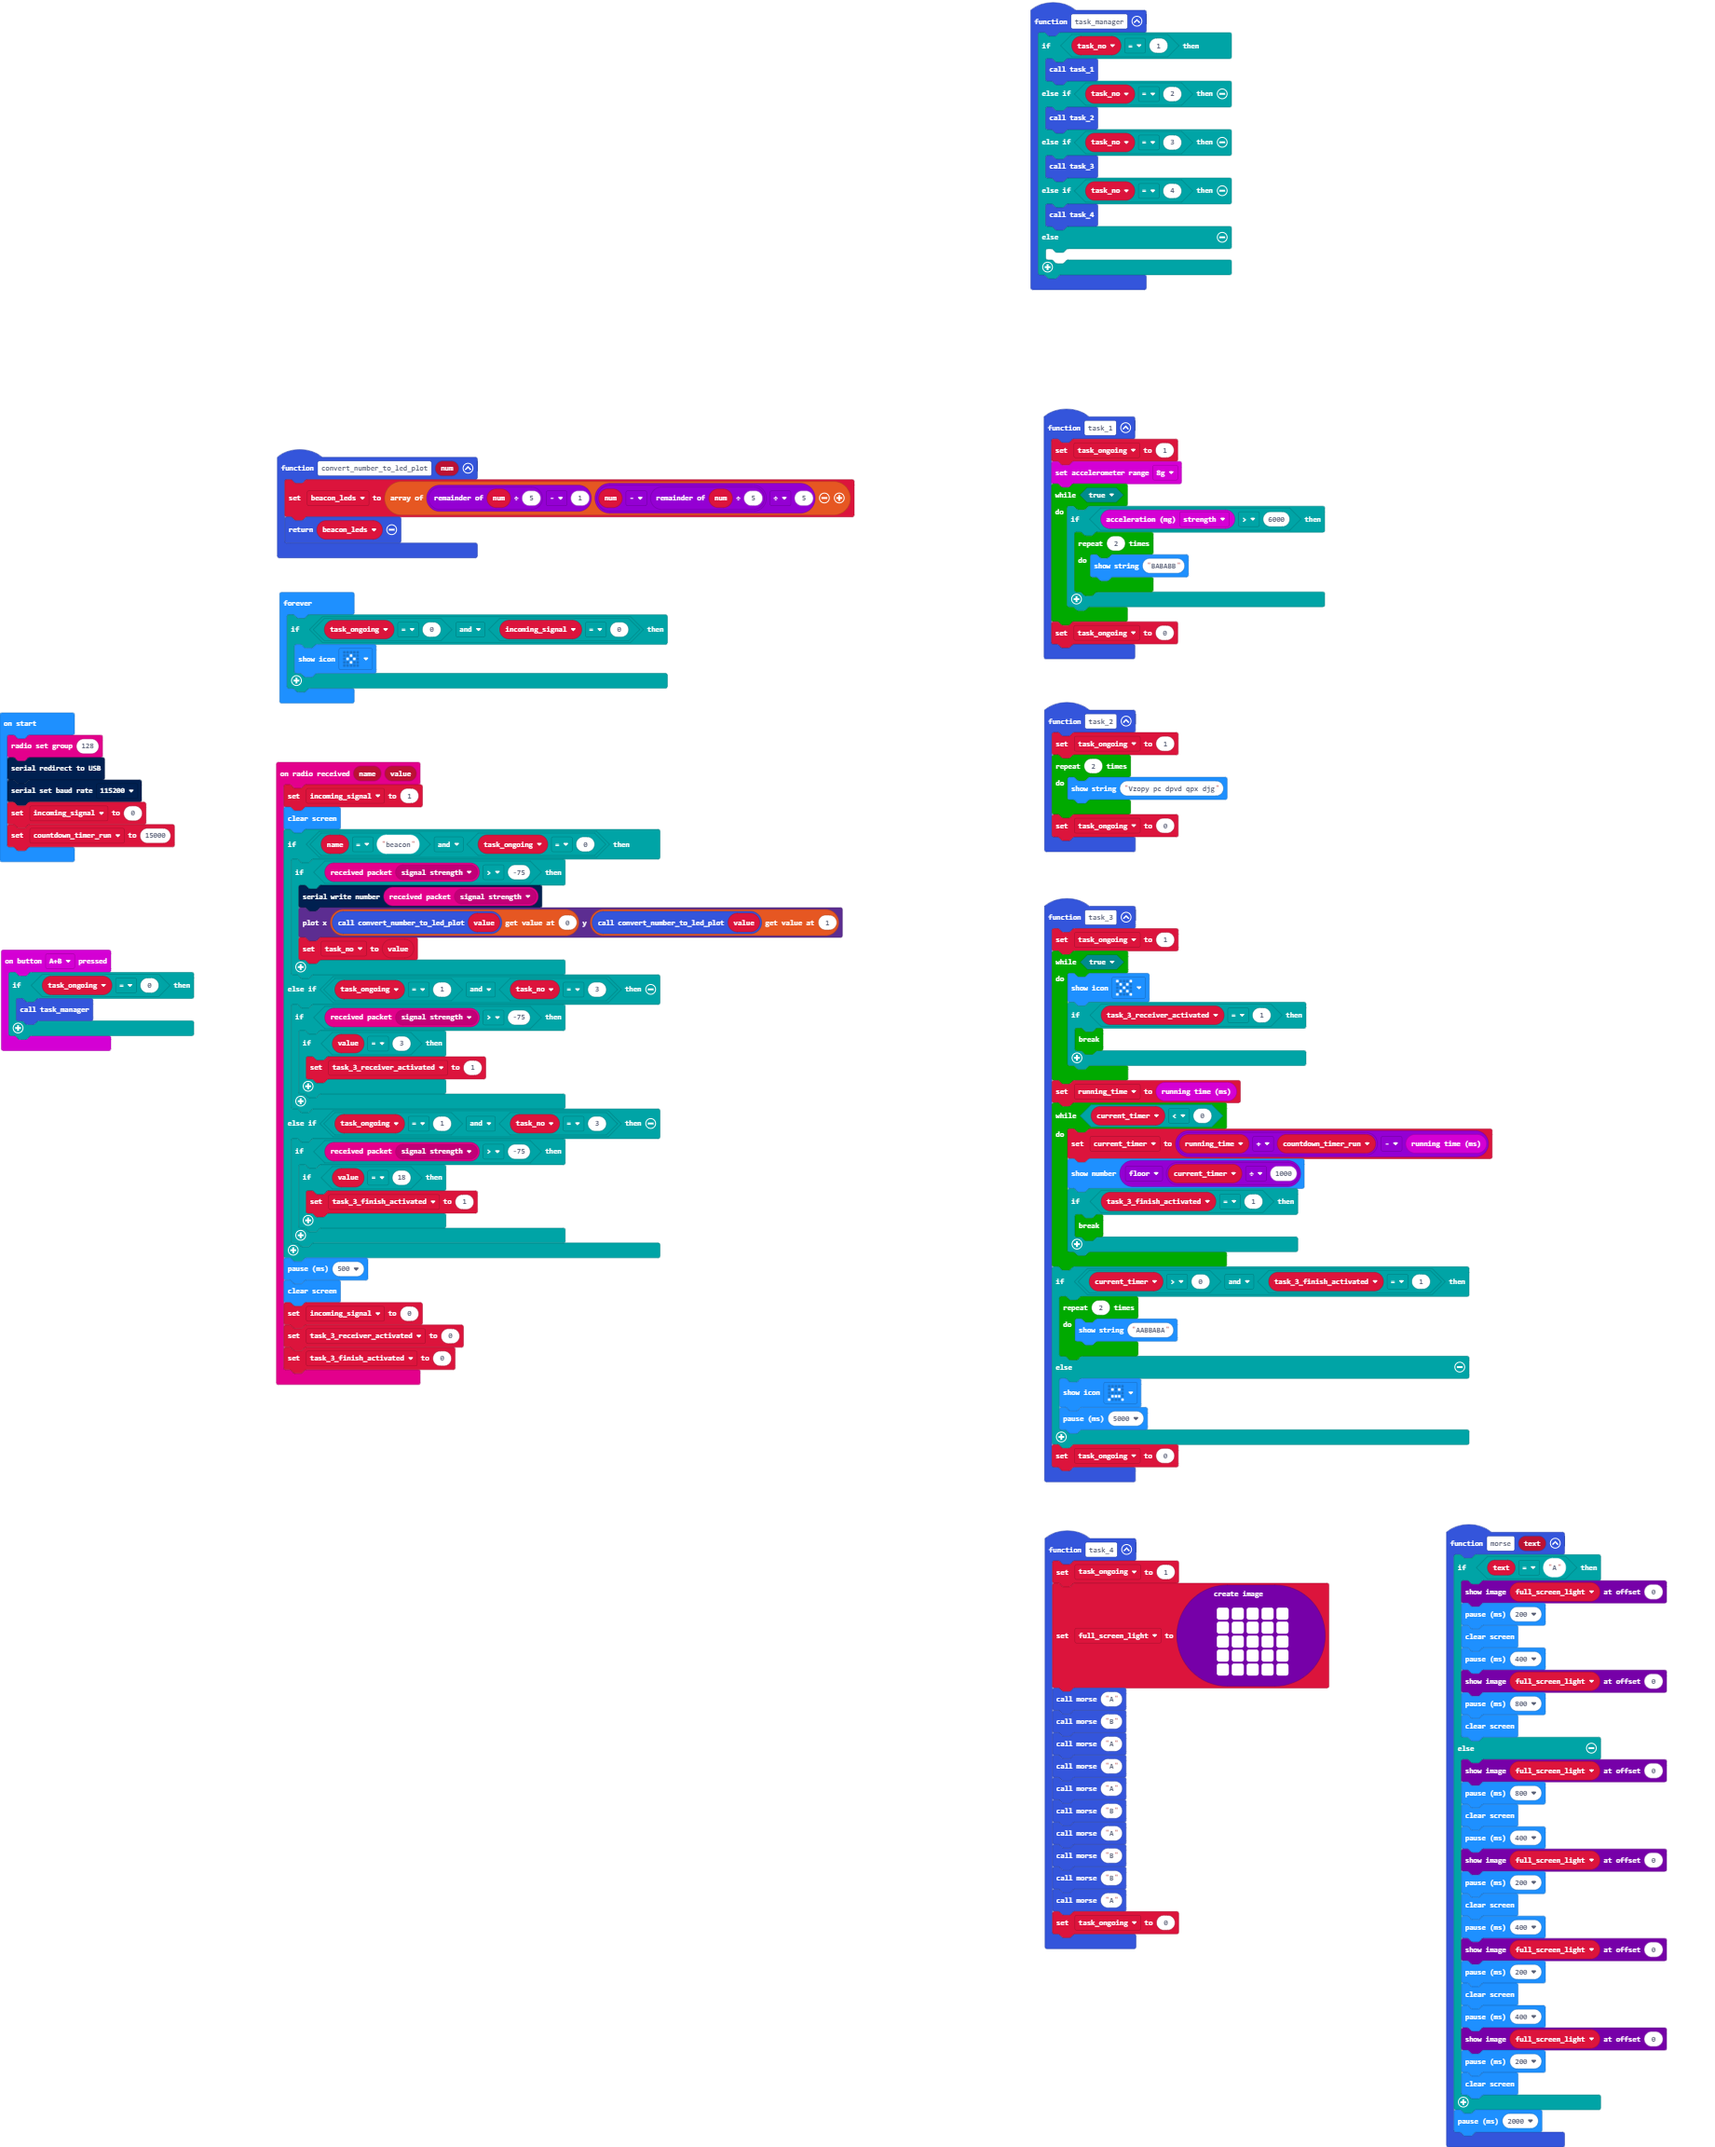
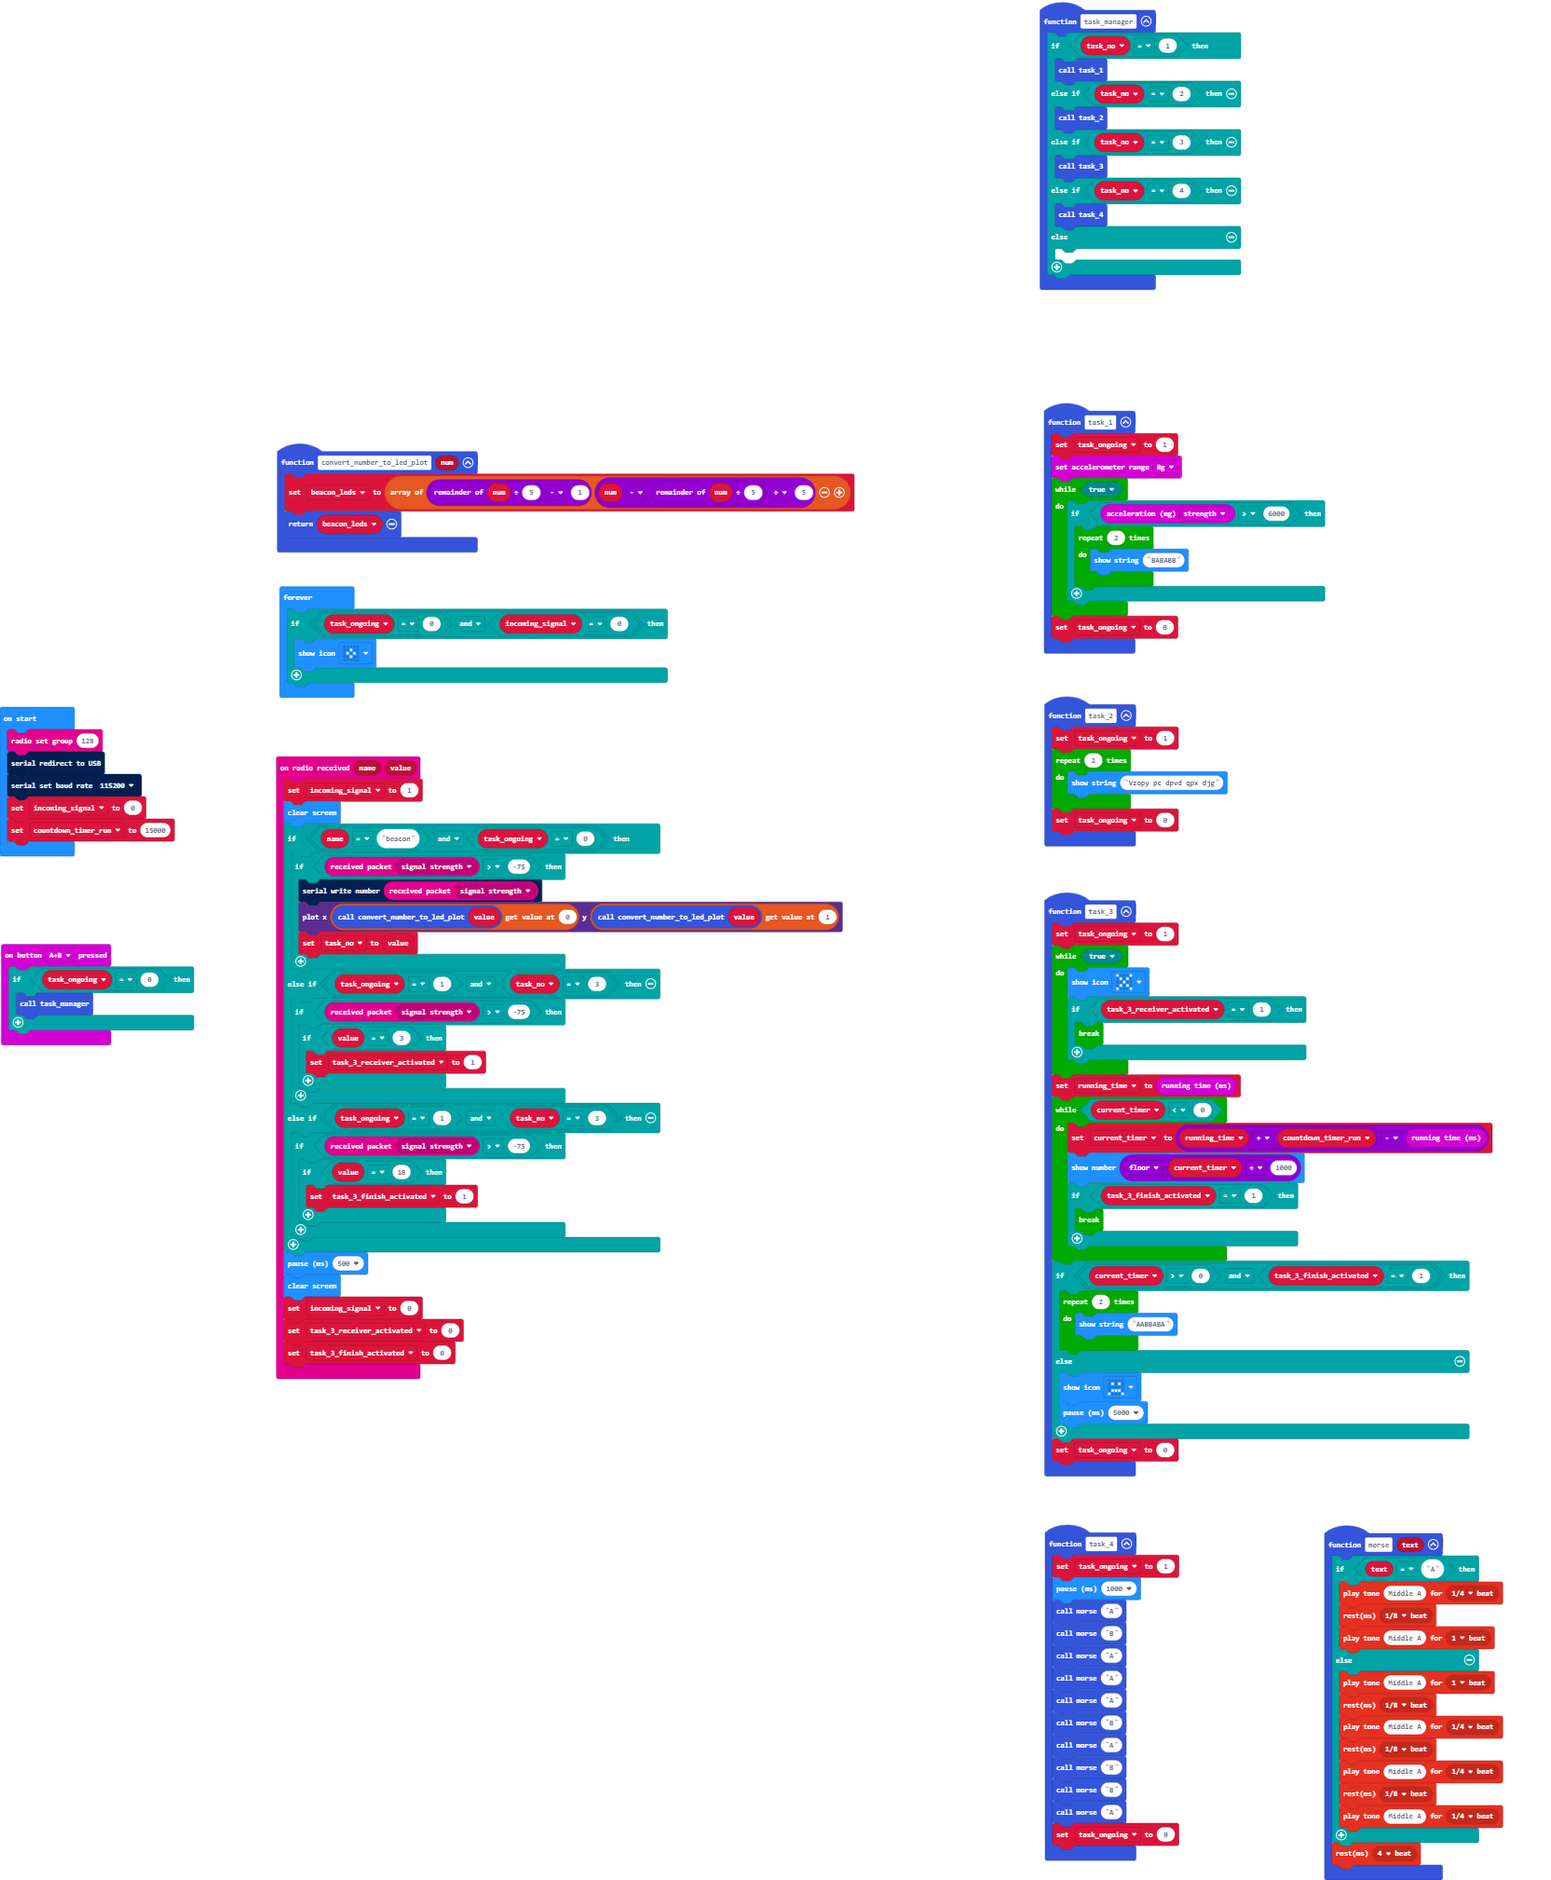
Finished and tested task 4

diff --git a/main.ts b/main.ts
@@ -62,31 +62,19 @@ function task_manager () {
 }
 function morse (text: string) {
     if (text == "A") {
-        full_screen_light.showImage(0)
-        basic.pause(200)
-        basic.clearScreen()
-        basic.pause(400)
-        full_screen_light.showImage(0)
-        basic.pause(800)
-        basic.clearScreen()
+        music.playTone(440, music.beat(BeatFraction.Quarter))
+        music.rest(music.beat(BeatFraction.Eighth))
+        music.playTone(440, music.beat(BeatFraction.Whole))
     } else {
-        full_screen_light.showImage(0)
-        basic.pause(800)
-        basic.clearScreen()
-        basic.pause(400)
-        full_screen_light.showImage(0)
-        basic.pause(200)
-        basic.clearScreen()
-        basic.pause(400)
-        full_screen_light.showImage(0)
-        basic.pause(200)
-        basic.clearScreen()
-        basic.pause(400)
-        full_screen_light.showImage(0)
-        basic.pause(200)
-        basic.clearScreen()
+        music.playTone(440, music.beat(BeatFraction.Whole))
+        music.rest(music.beat(BeatFraction.Eighth))
+        music.playTone(440, music.beat(BeatFraction.Quarter))
+        music.rest(music.beat(BeatFraction.Eighth))
+        music.playTone(440, music.beat(BeatFraction.Quarter))
+        music.rest(music.beat(BeatFraction.Eighth))
+        music.playTone(440, music.beat(BeatFraction.Quarter))
     }
-    basic.pause(2000)
+    music.rest(music.beat(BeatFraction.Breve))
 }
 input.onButtonPressed(Button.AB, function () {
     if (task_ongoing == 0) {
@@ -95,13 +83,7 @@ input.onButtonPressed(Button.AB, function () {
 })
 function task_4 () {
     task_ongoing = 1
-    full_screen_light = images.createImage(`
-        # # # # #
-        # # # # #
-        # # # # #
-        # # # # #
-        # # # # #
-        `)
+    basic.pause(1000)
     morse("A")
     morse("B")
     morse("A")
@@ -142,7 +124,6 @@ radio.onReceivedValue(function (name, value) {
     task_3_receiver_activated = 0
     task_3_finish_activated = 0
 })
-let full_screen_light: Image = null
 let task_no = 0
 let beacon_leds: number[] = []
 let task_3_finish_activated = 0
